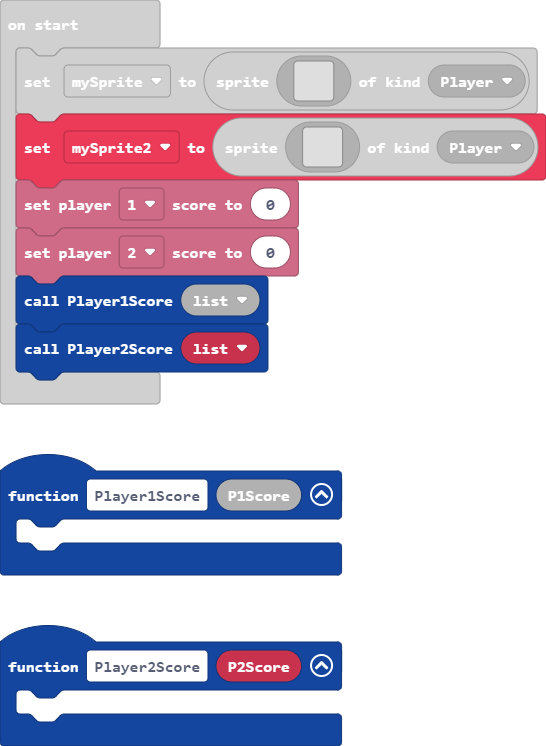
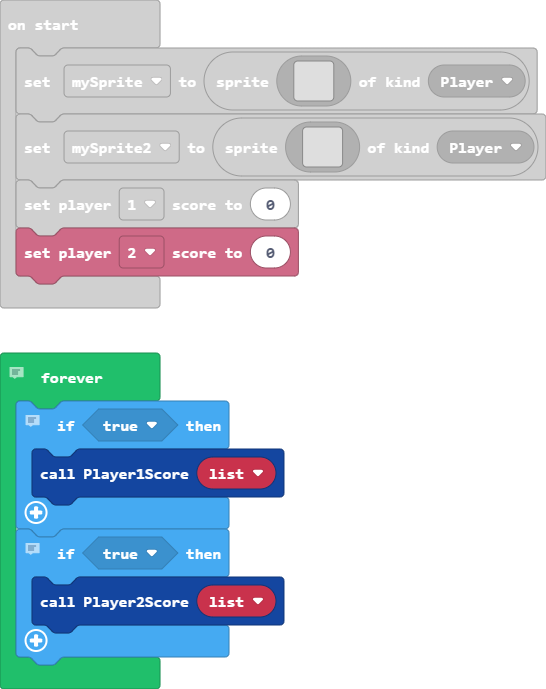
Update main.blocks, main.ts

diff --git a/main.ts b/main.ts
@@ -4,7 +4,6 @@ function Player2Score (P2Score: any[]) {
 function Player1Score (P1Score: any[]) {
 	
 }
-let list: number[] = []
 let mySprite = sprites.create(img`
     . . . . . . . . . . . . . . . . 
     . . . . . . . . . . . . . . . . 
@@ -43,5 +42,15 @@ let mySprite2 = sprites.create(img`
     `, SpriteKind.Player)
 info.player1.setScore(0)
 info.player2.setScore(0)
-Player1Score(list)
-Player2Score(list)
+// Score Changes
+forever(function () {
+    let list: number[] = []
+    // Will call score when P1 hit target
+    if (true) {
+        Player1Score(list)
+    }
+    // Will call score when P1 hit target
+    if (true) {
+        Player2Score(list)
+    }
+})
